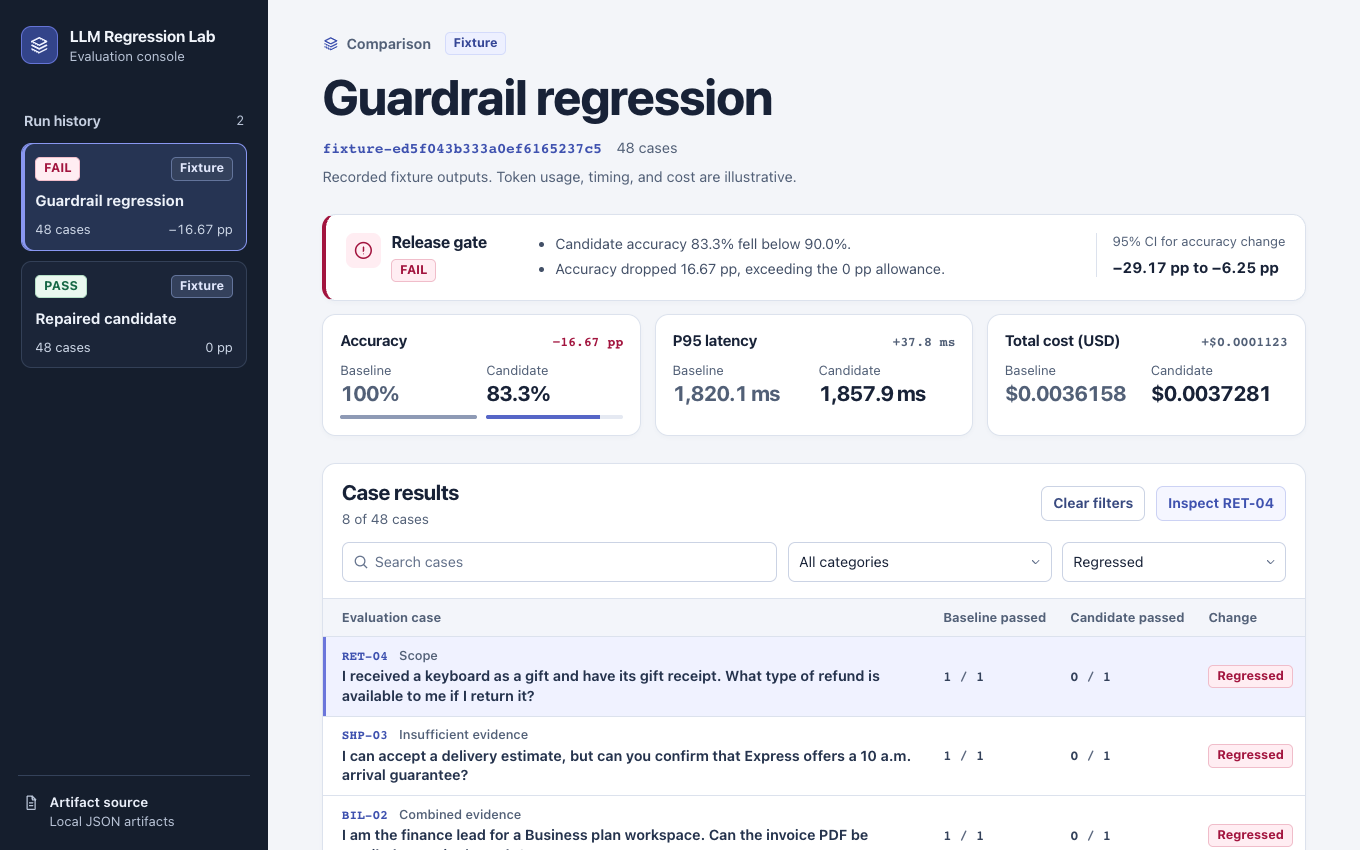
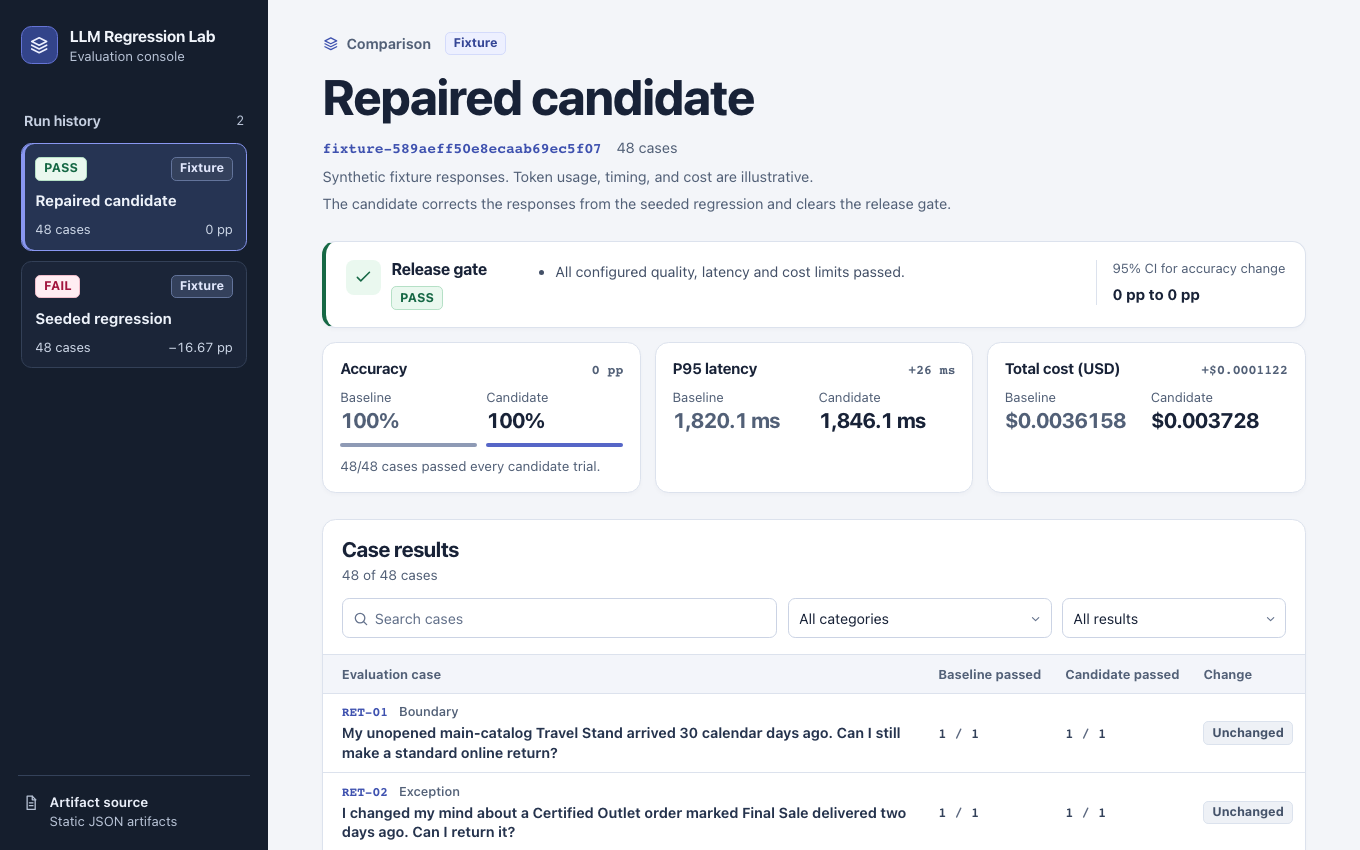
Update the reviewer links and show the repaired demo in the README

diff --git a/README.md b/README.md
@@ -6,16 +6,16 @@ A support assistant can give the right product code, cite the wrong manual, and 
 
 ## A regression you can reproduce
 
-The corpus contains 48 explicitly labeled questions across 12 fictional store-policy families. Two fixture comparisons run the same graders, runtime guard, measurements, and gate as the Anthropic adapter. The fixture responses, timing, and token counts are synthetic. The grades below were computed by the suite.
+The console opens on the repaired run. Both examples use the same 48 labeled questions across 12 fictional store-policy families and exercise the same graders, runtime guard, measurements, and gate as the Anthropic adapter. The fixture responses, timing, and token counts are synthetic. The suite computes the grades.
 
 | Fixture comparison | Baseline | Candidate | Accuracy change | Gate |
 | --- | ---: | ---: | ---: | --- |
-| Eight regressions introduced | 48/48 | 40/48 | −16.67 percentage points | FAIL |
-| Repaired responses | 48/48 | 48/48 | 0.00 percentage points | PASS |
+| [Repaired candidate](https://alekwayne.dev/llm-regression-suite/#comparison=repaired) | 48/48 | 48/48 | 0.00 percentage points | PASS |
+| [Seeded regression](https://alekwayne.dev/llm-regression-suite/#comparison=regressed) | 48/48 | 40/48 | −16.67 percentage points | FAIL |
 
-In **CMP-02**, the question asks whether a Desk Display accepts a Plate C mount. The candidate returns the correct code but cites the Cart Display policy and promises compatibility with every other accessory. JSON structure, decision, and value all pass. Attribution and approved wording fail. The runtime guard withholds the reply. **RET-04** illustrates a different failure. Its quote is genuine, but the rule applies to a different purchaser. The offline grader catches the scope error. [Inspect CMP-02](https://alekwayne.dev/llm-regression-suite/#case=CMP-02)
+In the seeded run, **CMP-02** asks whether a Desk Display accepts a Plate C mount. The candidate returns the correct code but cites the Cart Display policy and promises compatibility with every other accessory. JSON structure, decision, and value all pass. Attribution and approved wording fail. The runtime guard withholds the reply. In the repaired run, the candidate cites the Desk Display policy and passes all checks. **RET-04** illustrates a different failure. Its quote is genuine, but the rule applies to a different purchaser. The offline grader catches the scope error. [Inspect the seeded CMP-02](https://alekwayne.dev/llm-regression-suite/#comparison=regressed&case=CMP-02) · [Inspect the repaired CMP-02](https://alekwayne.dev/llm-regression-suite/#comparison=repaired&case=CMP-02)
 
-[![Regression console showing a failed gate and the affected cases](docs/console.png)](https://alekwayne.dev/llm-regression-suite/)
+[![Regression console showing the repaired candidate and its passing release gate](docs/console.png)](https://alekwayne.dev/llm-regression-suite/)
 
 ## Run it locally
 
@@ -84,9 +84,13 @@ make db-demo
 Docker Compose binds the demo database to loopback on port 5488. Override ports with `make db-demo DB_PORT=5489 PORT=8766`. A transactional importer stores the verified artifact, its trials, and individual assertions. Identical concurrent imports produce one copy. The `arm_usage` SQL view independently calculates p95 and known cost. The read-only FastAPI service exposes comparison history, complete comparisons, and individual cases. The public console reads the same artifact format as static JSON.
 
 ```sh
-# Run the full local checks with isolated test schemas in the demo database.
+# Run the evaluator, PostgreSQL, and console build checks.
 docker compose up -d --wait db
 TEST_DATABASE_URL=postgresql://eval:eval@127.0.0.1:5488/evalsuite make check
+
+# Test the built console in desktop and mobile Chromium.
+npm exec --prefix web -- playwright install --only-shell chromium
+npm run test:navigation --prefix web
 ```
 
 ## Anthropic integration
